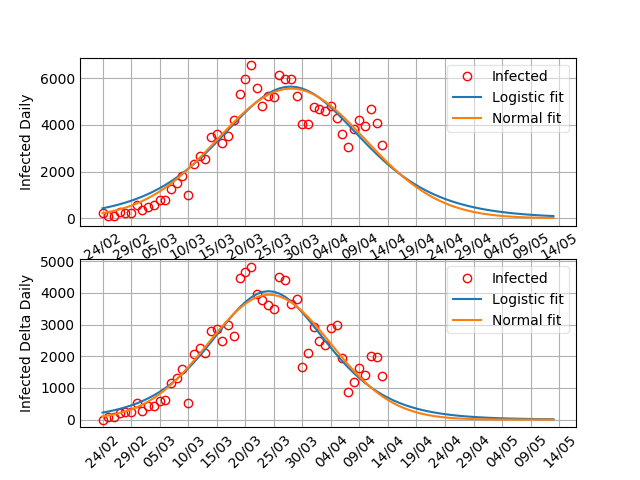
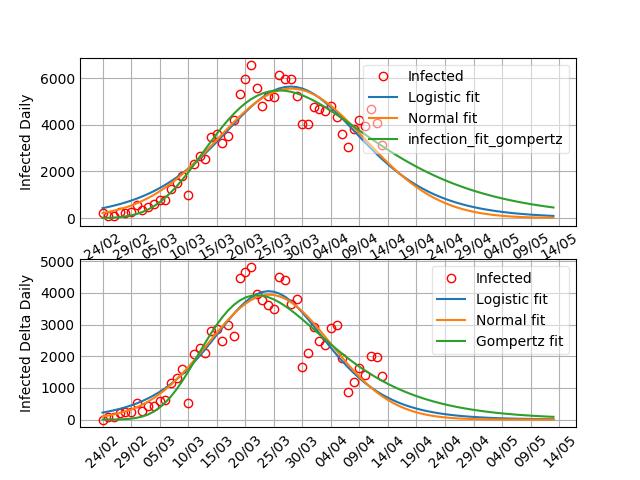
added Gompertz fitting

diff --git a/run_infection_daily.py b/run_infection_daily.py
@@ -5,6 +5,8 @@ from model import load_from_PC_increment_daily, load_from_PC_delta_infected_dail
 import matplotlib.ticker as ticker
 import datetime as dt
 from datetime import date
+from sklearn.metrics import mean_squared_error
+
 
 
 DATE_TO_START = '2020-02-24'
@@ -32,6 +34,11 @@ def main():
     print(amplitude, mu, std)
     infection_fit_normal = gaussian_function_pdf(t, amplitude, mu, std)
 
+    # GOMPERTZ FIT
+    (a,b,n), pcov = opt.curve_fit(shifted_gompertz_function_pdf, x, infection.values, p0=[1000, 1, 0.1])
+    print(a,b,n)
+    infection_fit_gompertz = shifted_gompertz_function_pdf(t, a, b, n)
+
     # --------------------------- #
     # -- DELTA INFECTION DAILY -- #
     delta_infection = load_from_PC_delta_infected_daily(remote=True)
@@ -40,16 +47,24 @@ def main():
     x = np.arange(0, len(delta_infection))
     # LOGISTIC FIT
     mean_est = sum(x * delta_infection.values) / sum(delta_infection.values)
-    (a, c, d), _ = opt.curve_fit(logistic_function_pdf, x, delta_infection.values, p0=[173084, 0.13, mean_est])
+    (a, c, d), pcov = opt.curve_fit(logistic_function_pdf, x, delta_infection.values, p0=[173084, 0.13, mean_est])
     print(a, c, d)
     infection_delta_fit_logistic = logistic_function_pdf(t, a, c, d)
+    print('MSE: {:.0f}'.format(mean_squared_error(infection_delta_fit_logistic[:len(delta_infection.values)], delta_infection.values)))
 
     # GAUSSIAN FIT
     mean_est = sum(x * delta_infection.values) / sum(delta_infection.values)
     sigma_est = sum(delta_infection.values * (x - mean_est) ** 2) / sum(delta_infection.values)
-    (amplitude, mu, std), _ = opt.curve_fit(gaussian_function_pdf, x, delta_infection.values, p0=[max(delta_infection.values), mean_est, sigma_est])
+    (amplitude, mu, std), pcov = opt.curve_fit(gaussian_function_pdf, x, delta_infection.values, p0=[max(delta_infection.values), mean_est, sigma_est])
     print(amplitude, mu, std)
     infection_delta_fit_normal = gaussian_function_pdf(t, amplitude, mu, std)
+    print('MSE: {:.0f}'.format(mean_squared_error(infection_delta_fit_normal[:len(delta_infection.values)], delta_infection.values)))
+
+    # GOMPERTZ FIT
+    (a,b,n), pcov = opt.curve_fit(shifted_gompertz_function_pdf, x, delta_infection.values, p0=[114691, 0.09, 10])
+    print(a,b,n)
+    infection_delta_fit_gompertz = shifted_gompertz_function_pdf(t, a, b, n)
+    print('MSE: {:.0f}'.format(mean_squared_error(infection_delta_fit_gompertz[:len(delta_infection.values)], delta_infection.values)))
 
     # --------------------------- #
     # ------- PLOT RESULTS ------ #
@@ -61,6 +76,7 @@ def main():
     ax.plot(t, infection_extended, 'ro', alpha=1,  mfc='none', label='Infected')
     ax.plot(t, infection_fit_logistic, label='Logistic fit')
     ax.plot(t, infection_fit_normal, label='Normal fit')
+    ax.plot(t, infection_fit_gompertz, label='infection_fit_gompertz')
     ax.set_ylabel('Infected Daily')
     legend = ax.legend()
     legend.get_frame().set_alpha(0.5)
@@ -76,6 +92,7 @@ def main():
     ax2.plot(t, infection_delta_extended, 'ro', alpha=1,  mfc='none', label='Infected')
     ax2.plot(t, infection_delta_fit_logistic, label='Logistic fit')
     ax2.plot(t, infection_delta_fit_normal, label='Normal fit')
+    ax2.plot(t, infection_delta_fit_gompertz, label='Gompertz fit')
     ax2.set_ylabel('Infected Delta Daily')
     legend = ax2.legend()
     legend.get_frame().set_alpha(0.5)
@@ -99,6 +116,9 @@ def logistic_function_pdf(x, a, c, d):
 
 def gaussian_function_pdf(x, amplitude, mean, stddev):
     return amplitude * np.exp(-((x - mean) / 4 / stddev)**2)
+
+def shifted_gompertz_function_pdf(x, amplitude, b, n):
+    return amplitude * b * np.exp(-b * x - n * np.exp(-b*x)) * (1 + n * (1 - np.exp(-b * x)))
 
 if __name__ == '__main__':
     main()
